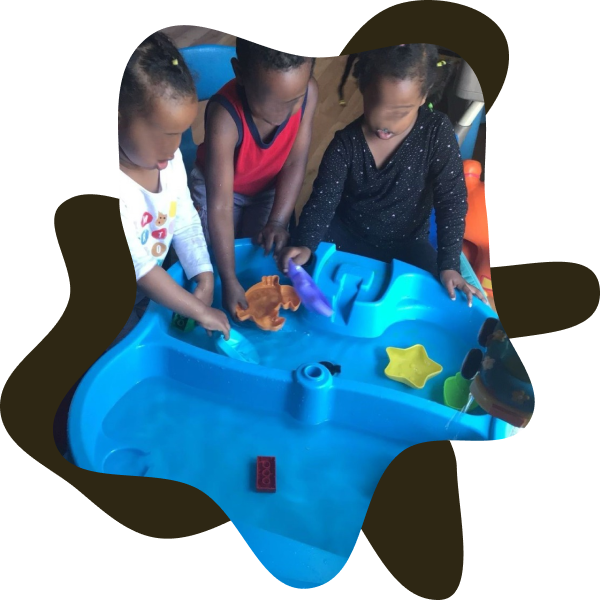
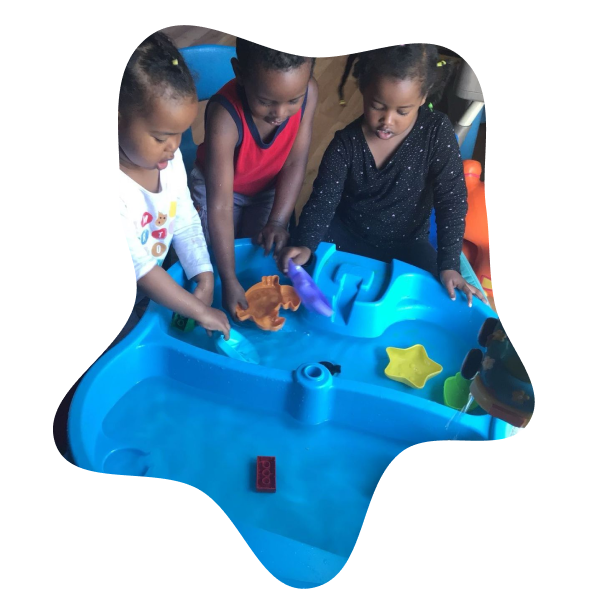
Changed the landing page

diff --git a/src/assets/styles/Header.css b/src/assets/styles/Header.css
@@ -9,12 +9,12 @@
   .overlay {
   position: absolute; /* Absolute positioning over the carousel */
   font-family: "Times New Roman", Times, serif;
-  top: 45%; /* Center vertically */
+  top: 40%; /* Center vertically */
   left: 50%; /* Center horizontally */
   width: 100%;
   transform: translate(-50%, -50%); /* Offset by half its size for perfect centering */
   text-align: center; /* Center text */
-  color: #fcf0ce; /* White text for contrast */
+  color: #fff; /* White text for contrast */
   z-index: 1; /* Ensure it appears above the image */
 }
 
@@ -61,18 +61,18 @@
 @media (max-width: 768px) {
   .land {
     width: 100%; /* Make the image responsive */
-    height: 420px; /* Maintain the aspect ratio */
+    height: 500px; /* Maintain the aspect ratio */
     border-radius: 8px; /* Optional: Add rounded corners */
     object-fit: cover; /* Optional: Adjust image scaling */
-    margin-top: 70px;
-    background-image: url("../images/LandingM001.png");
+    margin-top: 37px;
+    background-image:1 url("../images/landingM.png");
   }
   
   .overlay {
   position: absolute; /* Absolute positioning over the carousel */
   font-family: "Times New Roman", Times, serif;
   top: 40%; /* Center vertically */
-  left: 35%; /* Center horizontally */
+  left: 40%; /* Center horizontally */
   transform: translate(-50%, -50%); /* Offset by half its size for perfect centering */
   text-align: center; /* Center text */
   color: white; /* White text for contrast */
@@ -80,8 +80,9 @@
 }
 
 .overlay h1 {
-  font-size: 1.4rem; /* Adjust as needed */
-  margin-bottom: 1rem;
+  font-size: 1.8rem; /* Adjust as needed */
+  margin-bottom: 0.5rem;
+  margin-top: 1rem;
   margin-left: 6rem;
   text-align: center;
 }
@@ -102,6 +103,14 @@
   border-radius: 5px; /* Rounded corners */
   font-size: 0.7rem; /* Font size */
   cursor: pointer; /* Pointer cursor on hover */
+}
+
+.cta-button a{
+  color: #1A1423;
+}
+
+.cta-button:hover {
+  background-color: #fbc329; /* Darker shade on hover */
 }
 
 

diff --git a/src/components/Header.js b/src/components/Header.js
@@ -2,7 +2,7 @@
 
 import React from "react";
 import '../assets/styles/Header.css'
-import land from '../assets/images/Landing007.png';
+import land from '../assets/images/landing.png';
 
 
 const Header = () => {
